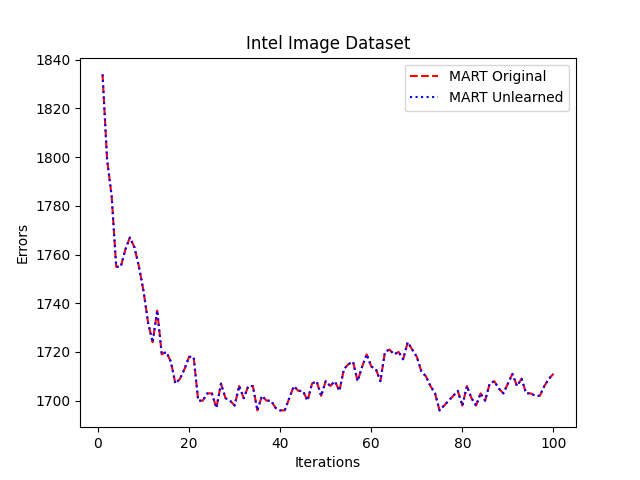
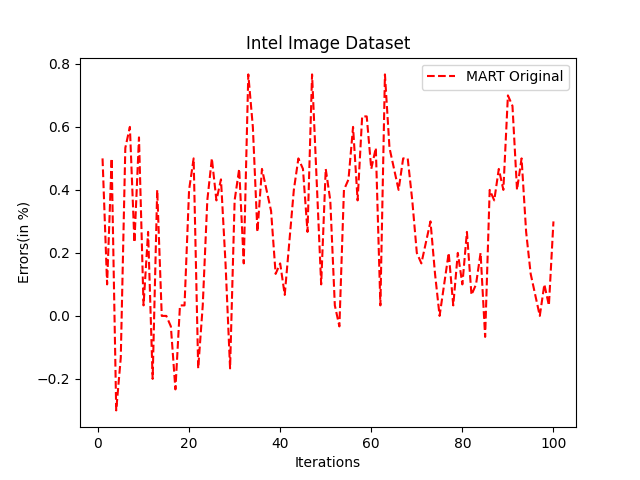
prediction difference graph

diff --git a/graph.py b/graph.py
@@ -149,19 +149,20 @@ with open('intel_image.test.csv_robustlogit_J20_v0.1.unlearnlog', 'r') as file:
     lines = file.readlines()
 data = [re.split(r'\s+', line.strip()) for line in lines]
 robustlogit_unlearn = pd.DataFrame(data)
+test_data = pd.read_csv('./data/intel_image.test.csv')
 # Errors for both method
 
 # errors_mart_coffee=mart[2].to_numpy().astype(int)
-errors_robustlogit_coffee=robustlogit[2].to_numpy().astype(int)
-errors_robustlogit_coffee_ul=robustlogit[2].to_numpy().astype(int)
+errors_robustlogit_coffee=robustlogit[2].to_numpy().astype(int) / len(test_data.index) * 100
+errors_robustlogit_coffee_ul=robustlogit_unlearn[2].to_numpy().astype(int) / len(test_data.index) * 100
 x_values = np.arange(1, len(errors_robustlogit_coffee) + 1)
 # Plot the graph
 # plt.plot(x_values, errors_mart_coffee,  linestyle='-', color='b', label='MART')
-plt.plot(x_values, errors_robustlogit_coffee, linestyle='dashed', color='r', label='MART Original')
-plt.plot(x_values, errors_robustlogit_coffee_ul, linestyle='dotted', color='b', label='MART Unlearned')
+plt.plot(x_values, errors_robustlogit_coffee - errors_robustlogit_coffee_ul, linestyle='dashed', color='r', label='MART Original')
+# plt.plot(x_values, errors_robustlogit_coffee_ul, linestyle='dotted', color='b', label='MART Unlearned')
 # Add labels and title
 plt.xlabel('Iterations')
-plt.ylabel('Errors')
+plt.ylabel('Errors(in %)')
 plt.title('Intel Image Dataset')
 # Add legend
 plt.legend()
